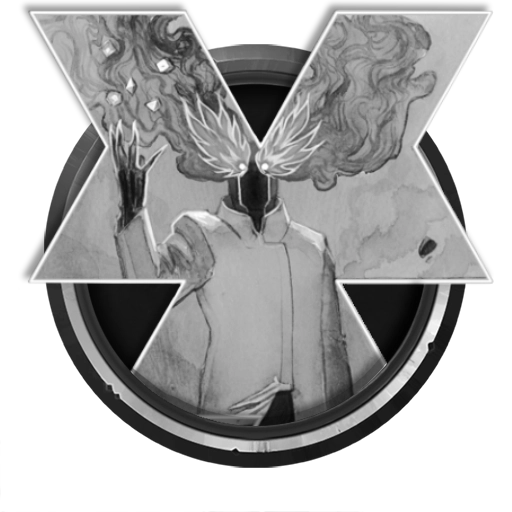
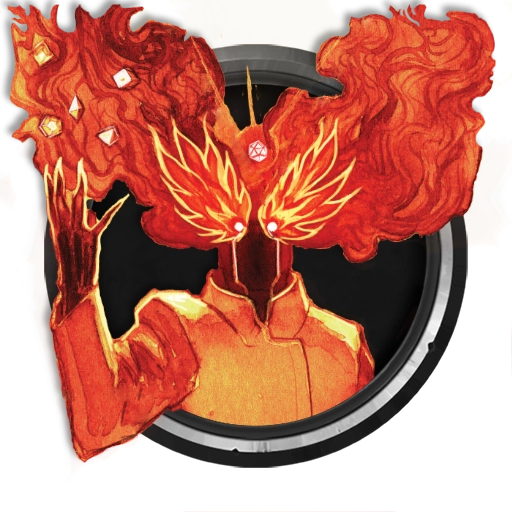
adv color updates, master images updated

diff --git a/src/scss/components/_advancements.scss b/src/scss/components/_advancements.scss
@@ -94,7 +94,7 @@
 
 	.triangle {
 		stroke: $c-black;
-		stroke-width: 4;
+		stroke-width: 1;
 		fill: transparent;
 		cursor: pointer;
 		transition: fill 0.2s ease, stroke 0.2s ease;
@@ -115,7 +115,12 @@
 		&.selected:not(.start-node) {
 			fill: $c-selected-bg;
 			stroke: $c-selected-border;
-			stroke-width: 5;
+
+			&:hover {
+				fill: $c-selected-bg;
+				stroke: $c-selected-border;
+				stroke-width: 5;
+			}
 		}
 
 		// Locked nodes
@@ -133,7 +138,6 @@
 		&.level-locked {
 			fill: $c-warning-bg;
 			stroke: $c-warning;
-			stroke-width: 5;
 			cursor: not-allowed;
 
 			&:hover {
@@ -145,16 +149,12 @@
 		&.available {
 			fill: $c-info-bg;
 			stroke: $c-info-bright;
-			stroke-width: 4;
-		}
 
-		// Hover state for selectable nodes (exclude start node)
-		&:not(.locked):not(.level-locked):not([data-disabled="true"]):not(
-				.start-node
-			):hover {
-			fill: $overlay-darker;
-			stroke: $c-white;
-			stroke-width: 5;
+			&:hover {
+				fill: $c-info-bg;
+				stroke: $c-info-bright;
+				stroke-width: 5;
+			}
 		}
 
 		// Disabled nodes

diff --git a/css/die-rpg.css b/css/die-rpg.css
@@ -1747,7 +1747,7 @@ body.game .die-rpg.actor .window-content .tab, body.game .die-rpg.item .window-c
 }
 .die-rpg .tab.advancements .triangle {
   stroke: var(--die-rpg-c-black);
-  stroke-width: 4;
+  stroke-width: 1;
   fill: transparent;
   cursor: pointer;
   transition: fill 0.2s ease, stroke 0.2s ease;
@@ -1764,6 +1764,10 @@ body.game .die-rpg.actor .window-content .tab, body.game .die-rpg.item .window-c
 .die-rpg .tab.advancements .triangle.selected:not(.start-node) {
   fill: var(--die-rpg-c-selected-bg);
   stroke: var(--die-rpg-c-selected-border);
+}
+.die-rpg .tab.advancements .triangle.selected:not(.start-node):hover {
+  fill: var(--die-rpg-c-selected-bg);
+  stroke: var(--die-rpg-c-selected-border);
   stroke-width: 5;
 }
 .die-rpg .tab.advancements .triangle.locked {
@@ -1777,7 +1781,6 @@ body.game .die-rpg.actor .window-content .tab, body.game .die-rpg.item .window-c
 .die-rpg .tab.advancements .triangle.level-locked {
   fill: var(--die-rpg-c-warning-bg);
   stroke: var(--die-rpg-c-warning);
-  stroke-width: 5;
   cursor: not-allowed;
 }
 .die-rpg .tab.advancements .triangle.level-locked:hover {
@@ -1786,11 +1789,10 @@ body.game .die-rpg.actor .window-content .tab, body.game .die-rpg.item .window-c
 .die-rpg .tab.advancements .triangle.available {
   fill: var(--die-rpg-c-info-bg);
   stroke: var(--die-rpg-c-info-bright);
-  stroke-width: 4;
 }
-.die-rpg .tab.advancements .triangle:not(.locked):not(.level-locked):not([data-disabled=true]):not(.start-node):hover {
-  fill: var(--die-rpg-overlay-darker);
-  stroke: var(--die-rpg-c-white);
+.die-rpg .tab.advancements .triangle.available:hover {
+  fill: var(--die-rpg-c-info-bg);
+  stroke: var(--die-rpg-c-info-bright);
   stroke-width: 5;
 }
 .die-rpg .tab.advancements .triangle[data-disabled=true] {